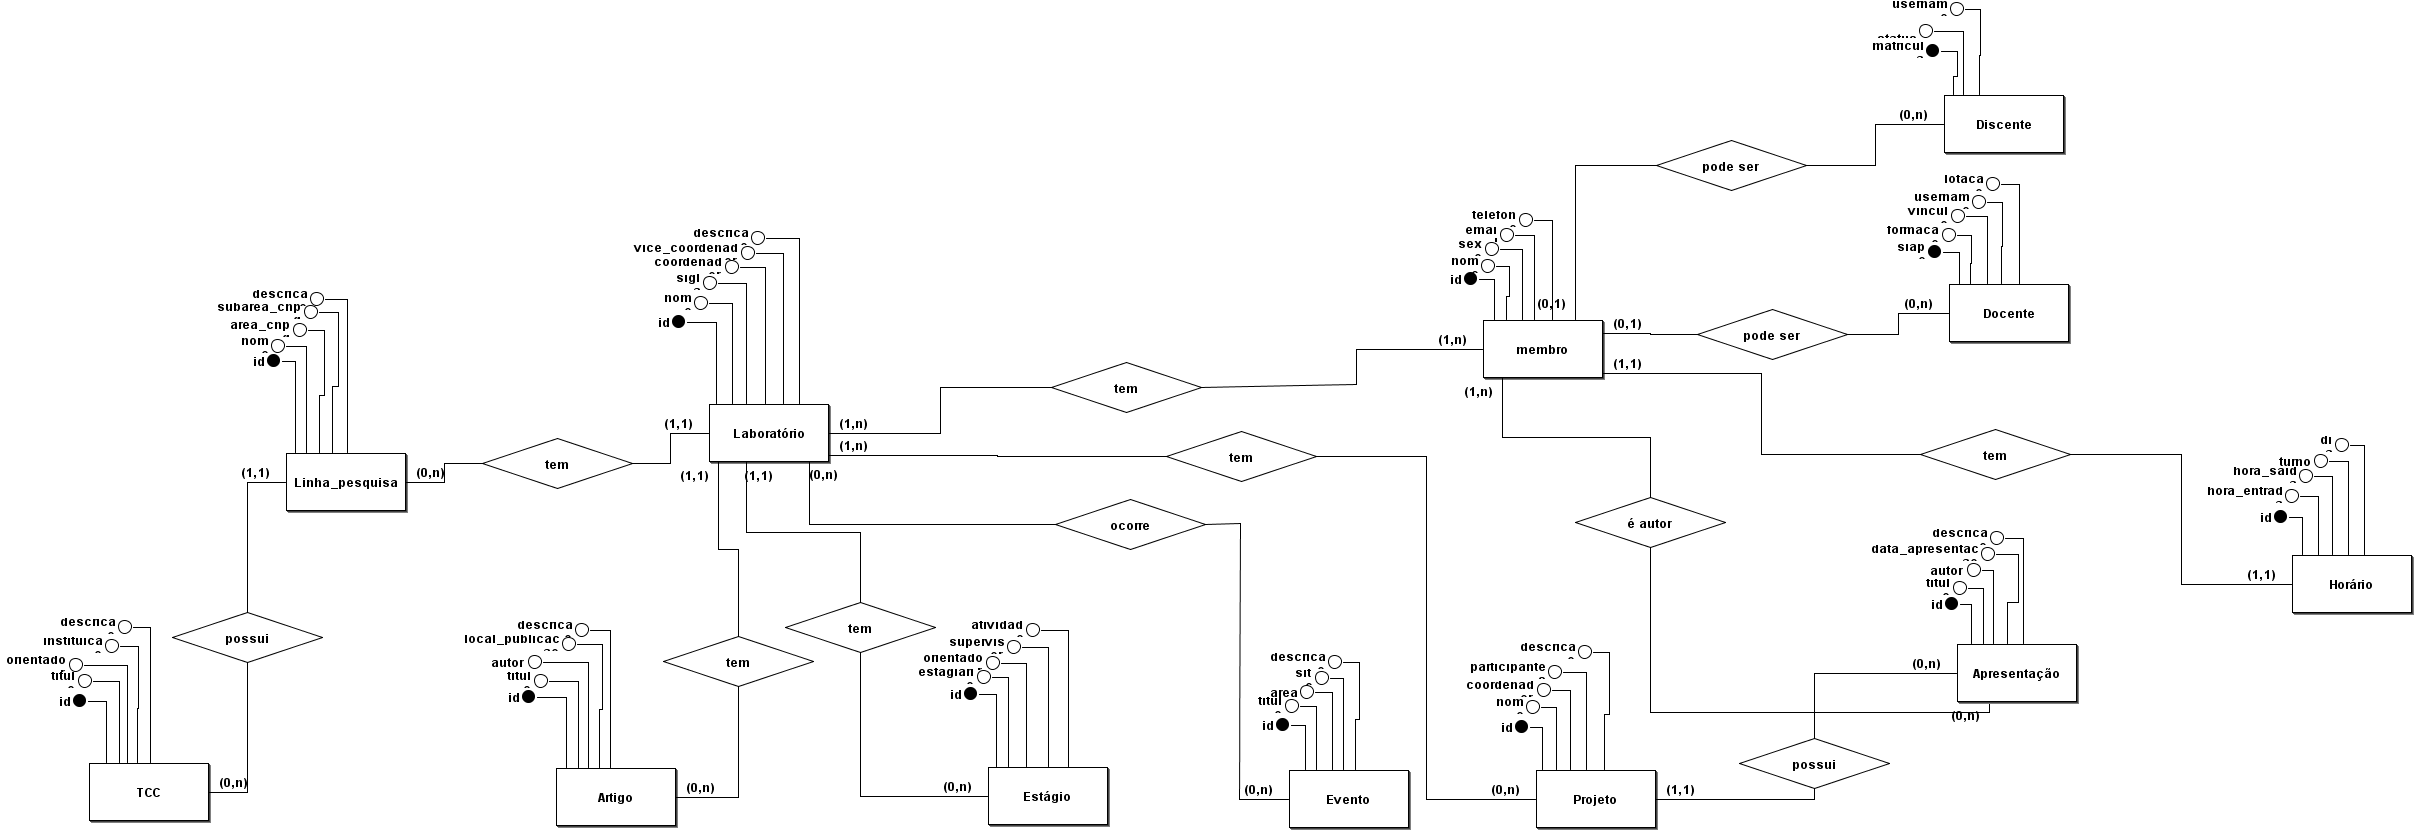
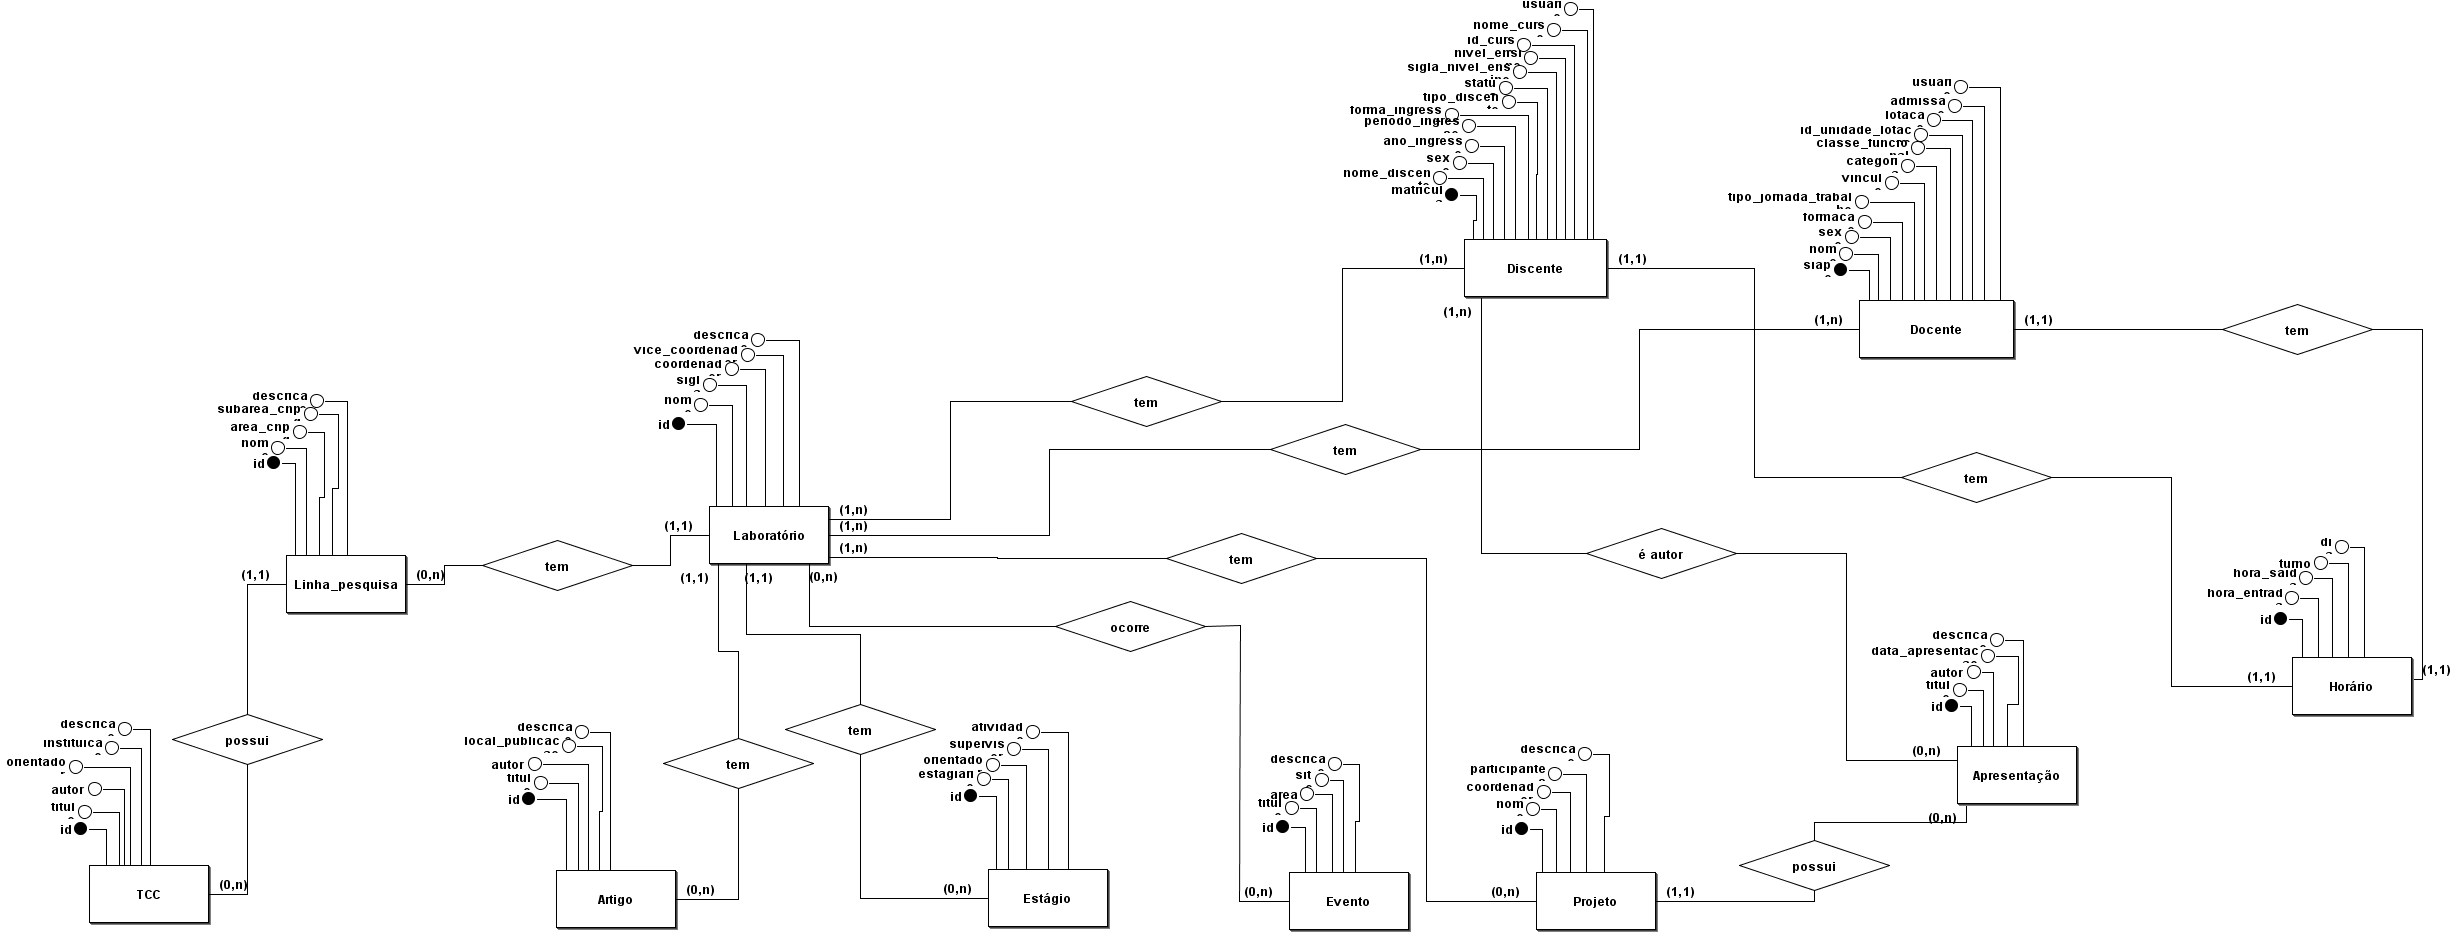
Correções/Atualizações #99

diff --git a/docs/doc-modelo.md b/docs/doc-modelo.md
@@ -26,7 +26,7 @@
 |   Tabela   | Linha de Pesquisa |
 | ---------- | ----------- |
 | Descrição  | Armazena as informações de uma pesquisa. |
-| Observação | |
+| Observação |---- |
 
 |  Nome         | Descrição                        | Tipo de Dado | Tamanho | Restrições de Domínio |
 | ------------- | -------------------------------- | ------------ | ------- | --------------------- |
@@ -41,7 +41,7 @@
 |   Tabela   | TCC |
 | ---------- | ----------- |
 | Descrição  | Armazena as informações de um TCC. |
-| Observação | |
+| Observação |---- |
 
 |  Nome         | Descrição                        | Tipo de Dado | Tamanho | Restrições de Domínio |
 | ------------- | -------------------------------- | ------------ | ------- | --------------------- |
@@ -58,7 +58,7 @@
 |   Tabela   | Artigo |
 | ---------- | ----------- |
 | Descrição  | Armazena as informações de um artigo. |
-| Observação | |
+| Observação | ----|
 
 |  Nome         | Descrição                        | Tipo de Dado | Tamanho | Restrições de Domínio |
 | ------------- | -------------------------------- | ------------ | ------- | --------------------- |
@@ -73,7 +73,7 @@
 |   Tabela   | Evento |
 | ---------- | ----------- |
 | Descrição  | Armazena as informações de um evento. |
-| Observação | |
+| Observação | ----|
 
 |  Nome         | Descrição                        | Tipo de Dado | Tamanho | Restrições de Domínio |
 | ------------- | -------------------------------- | ------------ | ------- | --------------------- |
@@ -89,7 +89,7 @@
 |   Tabela   | Projeto |
 | ---------- | ----------- |
 | Descrição  | Armazena as informações de um projeto. |
-| Observação | |
+| Observação |---- |
 
 |  Nome         | Descrição                        | Tipo de Dado | Tamanho | Restrições de Domínio |
 | ------------- | -------------------------------- | ------------ | ------- | --------------------- |
@@ -103,7 +103,7 @@
 |   Tabela   | Apresentação |
 | ---------- | ----------- |
 | Descrição  | Armazena as informações de uma apresentação. |
-| Observação | |
+| Observação | -----|
 
 |  Nome         | Descrição                        | Tipo de Dado | Tamanho | Restrições de Domínio |
 | ------------- | -------------------------------- | ------------ | ------- | --------------------- |
@@ -118,7 +118,7 @@
 |   Tabela   | Horário |
 | ---------- | ----------- |
 | Descrição  | Armazena as informações dos horários dos membros. |
-| Observação | |
+| Observação |----- |
 
 |  Nome         | Descrição                        | Tipo de Dado | Tamanho | Restrições de Domínio |
 | ------------- | -------------------------------- | ------------ | ------- | --------------------- |
@@ -128,4 +128,66 @@
 | turno         | turnos(matutino, vespertino, noturno)| VARCHAR  | 50      | Not Null |
 | dia_semana    | dias da semana                  | VARCHAR  | 50      | Not Null |
 | membro        | nome do membro                  | INT     | ---    | FK/Not Null |
+
+
+|   Tabela   | Estágio |
+| ---------- | ----------- |
+| Descrição  | Armazena as informações dos estágios. |
+| Observação | ----|
+
+|  Nome         | Descrição                        | Tipo de Dado | Tamanho | Restrições de Domínio |
+| ------------- | -------------------------------- | ------------ | ------- | --------------------- |
+| id            | identificador gerado pelo SGBD   | SERIAL       | ---     | PK / Identity |
+| estagiario    | nome do estagiario               | INT          | ---     | FK/Not Null |
+| orientador    | nome do orientador               | INT          | ---     | FK/Not Null |
+| supervisor    | nome do supervisor               | INT          | ---     | FK/Not Null |
+| atividade     | atividade de estagio             | VARCHAR      | 250     | Not Null |
+| laboratório   | Laboratório o qual o estágio está vinculado|  INT      | --- | FK/Not Null |
+
+
+|   Tabela   | Discente |
+| ---------- | ----------- |
+| Descrição  | Armazena as informações do discente. |
+| Observação | ----|
+
+|  Nome         | Descrição                        | Tipo de Dado | Tamanho | Restrições de Domínio |
+| ------------- | -------------------------------- | ------------ | ------- | --------------------- |
+| id            | identificador gerado pelo SGBD   | SERIAL       | ---     | PK / Identity         |
+| matricula     | matricula do discente            | INT          | ---     | UNIQUE                |
+| nome_discente | nome do discente                 | VARCHAR      | 100     | Not Null              |
+| sexo          | sexo do discente                 | VARCHAR      | 15      | ---                   |
+| ano_ingresso  | ano do ingresso                  | INT          | ---     | Not Null              |
+| periodo_ingresso| periodo do ingresso            | INT          | ---     | Not Null              |
+| forma_ingresso| Forma de ingresso na universidade| VARCHAR      | 250     | Not Null              |
+| tipo_discente | Tipo de discente (regular ou especial)| VARCHAR | 60      | Not Null              |
+| status        | Status do discente (Ativo ou Concluído)| VARCHAR | 60     | Not Null              |
+| sigla_nivel_ensino| Sigla do nível de ensino do discente| VARCHAR| 60     | Not Null              |
+| nivel_ensino  | Nível de ensino do discente      | VARCHAR      | 60      | Not Null              |
+| id_curso      | Identificador do curso do discente| VARCHAR     | 60      | Not Null              |
+| nome_curso    | Nome do curso do discente        | VARCHAR      | 60      | Not Null              |
+| usuario       | Nome do usuario do discente      | INT          | 60      | ---                   |
+| laboratório   | Laboratório o qual o discente está vinculado|  INT      | --- | FK/Not Null       |
+
+
+|   Tabela   | Docente |
+| ---------- | ----------- |
+| Descrição  | Armazena as informações do docente. |
+| Observação | ----|
+
+|  Nome         | Descrição                        | Tipo de Dado | Tamanho | Restrições de Domínio |
+| ------------- | -------------------------------- | ------------ | ------- | --------------------- |
+| id            | identificador gerado pelo SGBD   | SERIAL       | ---     | PK / Identity         |
+| siape         | Matrícula SIAPE do docente       | INT          | ---     | UNIQUE                |
+| nome_discente | Nome do docente                  | VARCHAR      | 100     | Not Null              |
+| sexo          | Sexo do docente                  | VARCHAR      | 15      | ---                   |
+| formacao      | Denominação da formação/titulação do docente    | VARCHAR | 60     | Not Null     |
+| tipo_jornada_trabalho| Regime de trabalho do docente | VARCHAR  | 60      | Not Null              |
+| vinculo       | Vínculo do docente               | VARCHAR      | 60      | Not Null              |
+| categoria     | Cargo do docente                 | VARCHAR      | 60      | Not Null              |
+| classe_funcional | Classe funcional do docente   | VARCHAR      | 60      | Not Null              |
+| id_unidade_lotacao| Identificador da unidade de lotação do docente| INT | ---     | ---           |
+| lotacao       | Unidade de lotação do docente    | VARCHAR      | 60      | ---                   |
+| admissao      | Data em que o docente foi admitido na instituição| DATE     | ---      | Not Null |
+| usuario       | Nome do usuario do docente      | INT          | 60      | ---                    |
+| laboratório   | Laboratório o qual o docente está vinculado|  INT      | --- | FK/Not Null        |
 
